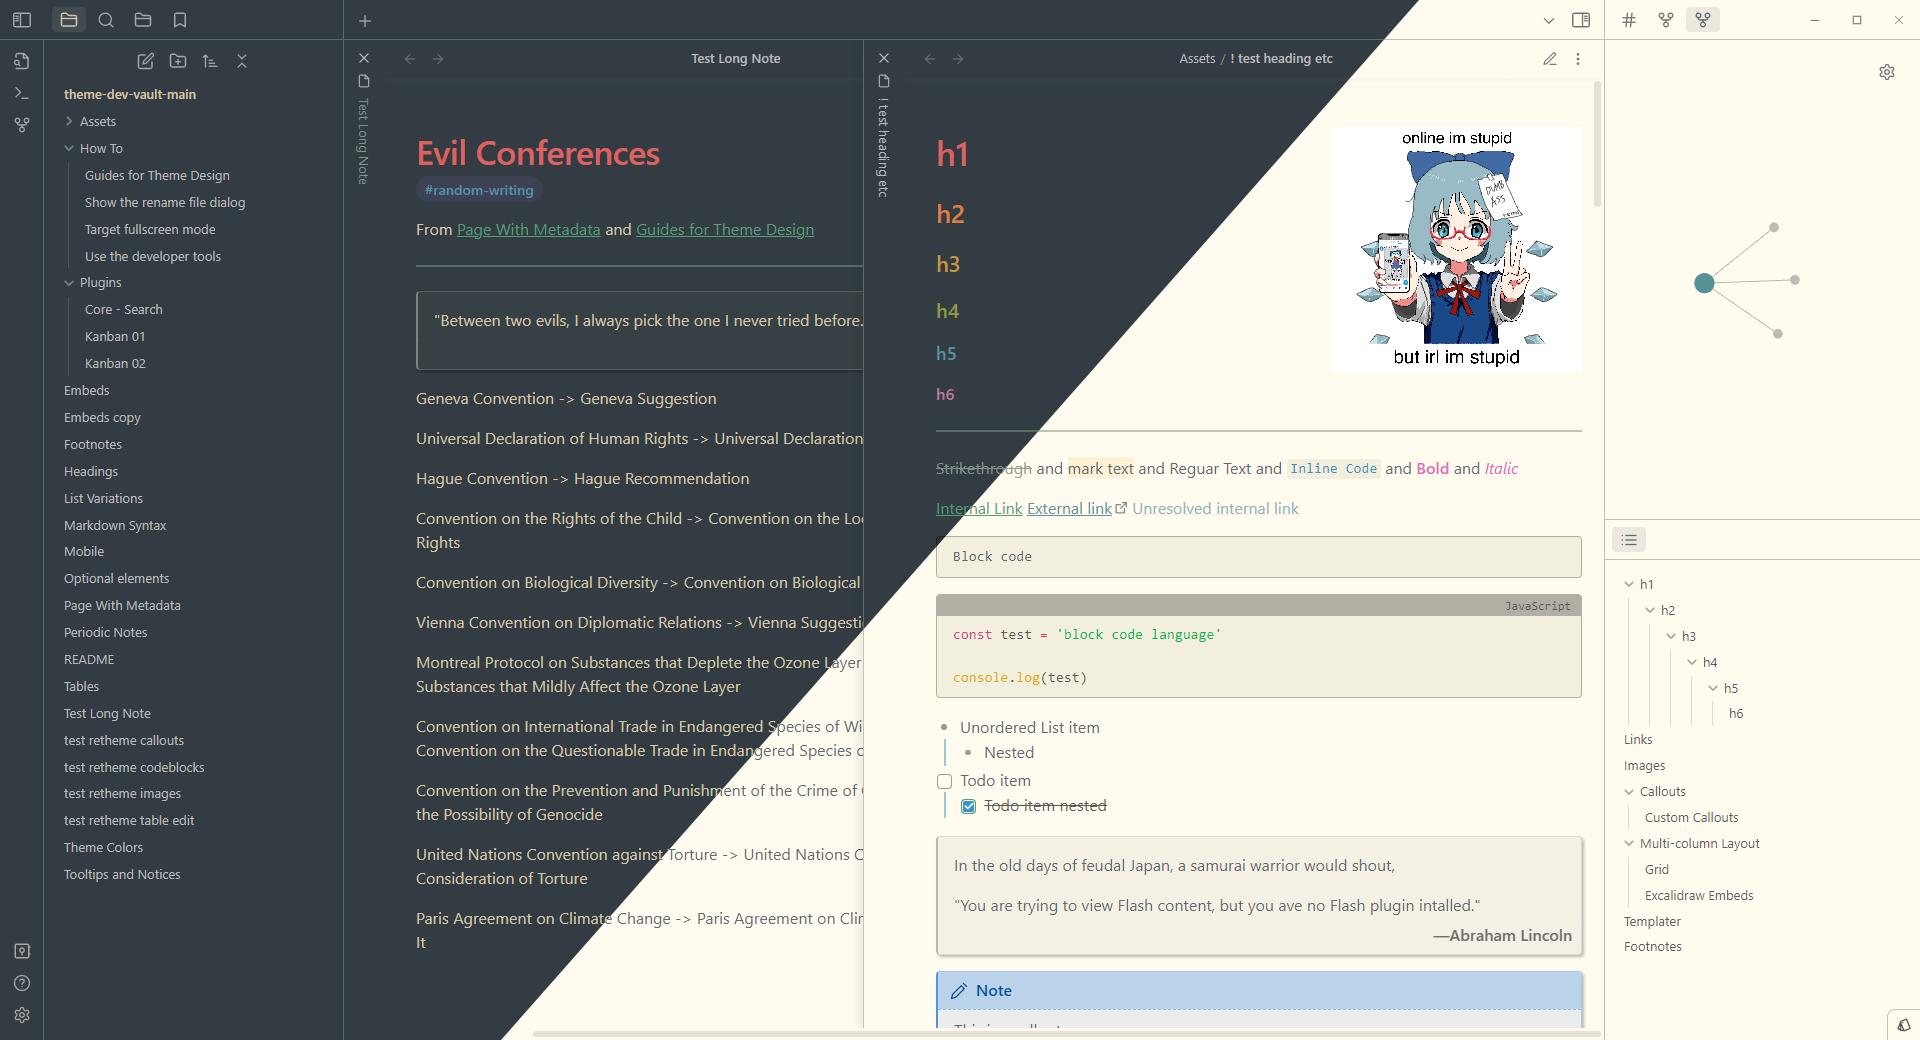
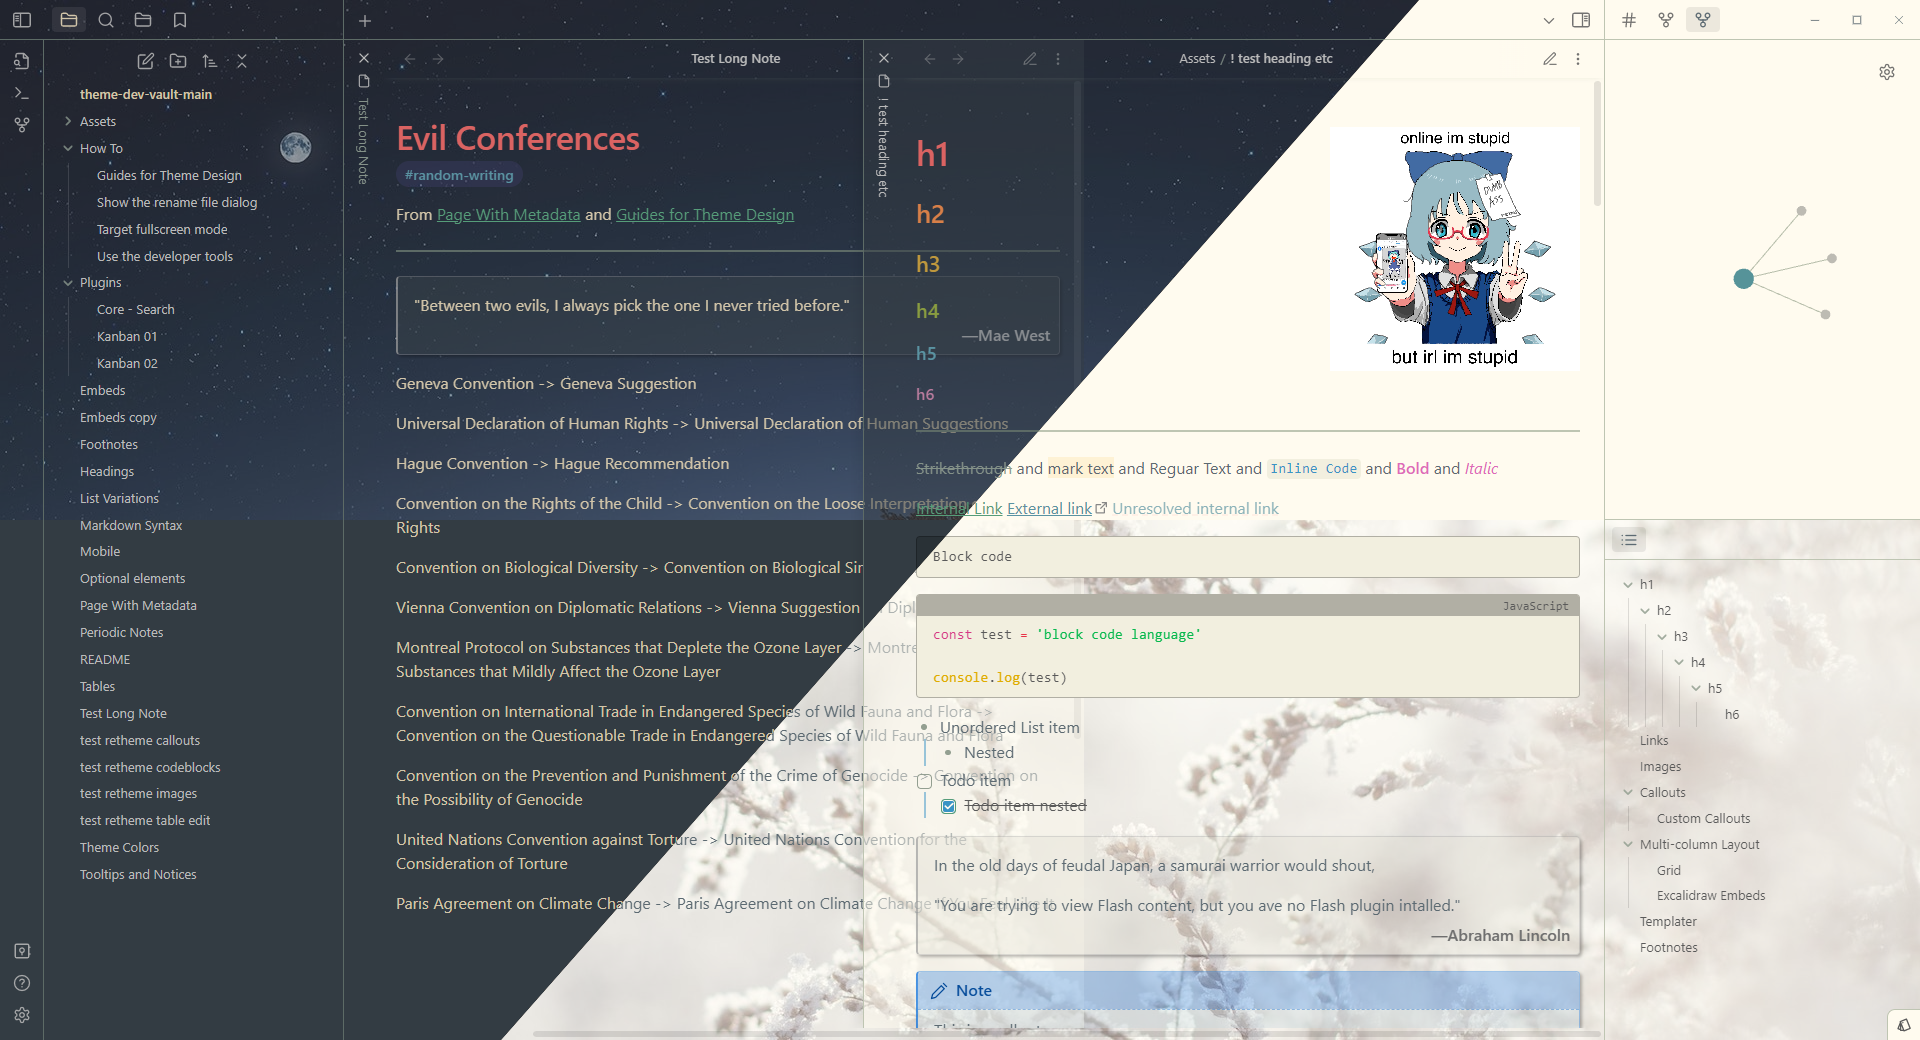
Update images with custom background examples

diff --git a/README.md b/README.md
@@ -24,9 +24,10 @@ I had some issues with the styling of the other project, but the codebase was ve
 
 ### Themes
 
-|             Dark              |             Light              |
-|:-----------------------------:|:------------------------------:|
-| ![](asssets/theme%20dark.png) | ![](asssets/theme%20light.png) |
+|                 Dark                  |                 Light                  |
+|:-------------------------------------:|:--------------------------------------:|
+|     ![](asssets/theme%20dark.png)     |     ![](asssets/theme%20light.png)     |
+| ![](asssets/theme%20dark%20image.png) | ![](asssets/theme%20light%20image.png) |
 
 ### Image styling
 
@@ -49,6 +50,14 @@ A full list of styles can be found at [image styling](image_styling.md).
 |                Dark                |                Light                |
 |:----------------------------------:|:-----------------------------------:|
 | ![](asssets/codeblocks%20dark.png) | ![](asssets/codeblocks%20light.png) |
+
+## Custom Background Images
+
+External and local images can be used. More information can be found at [custom background images](custom_background_image.md).
+
+![](asssets/theme%20dark%20image.png)
+
+![](asssets/theme%20light%20image.png)
 
 ### CSS Classes
 
